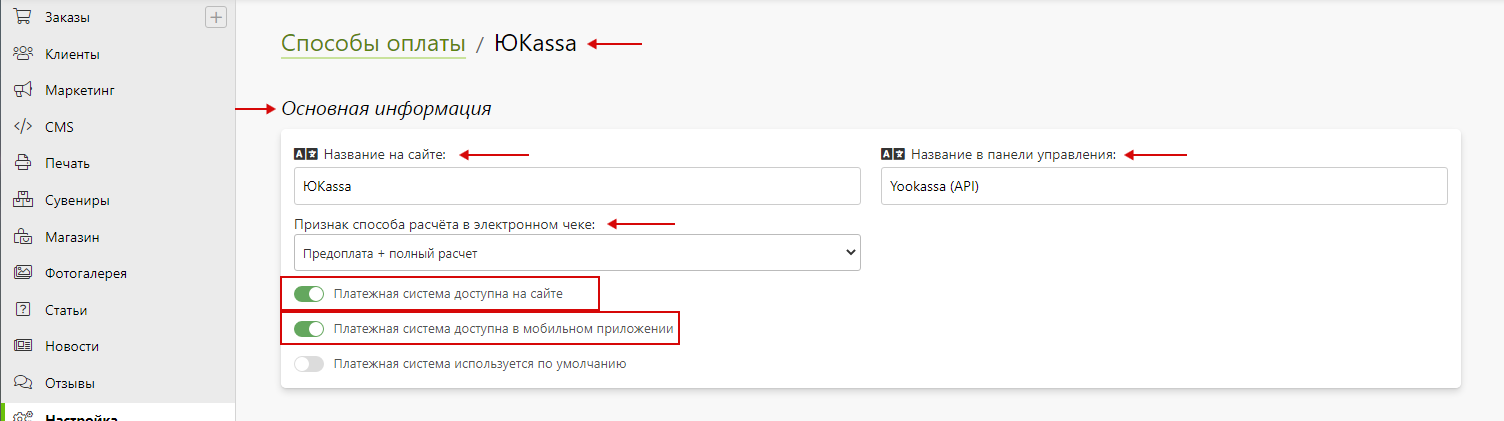
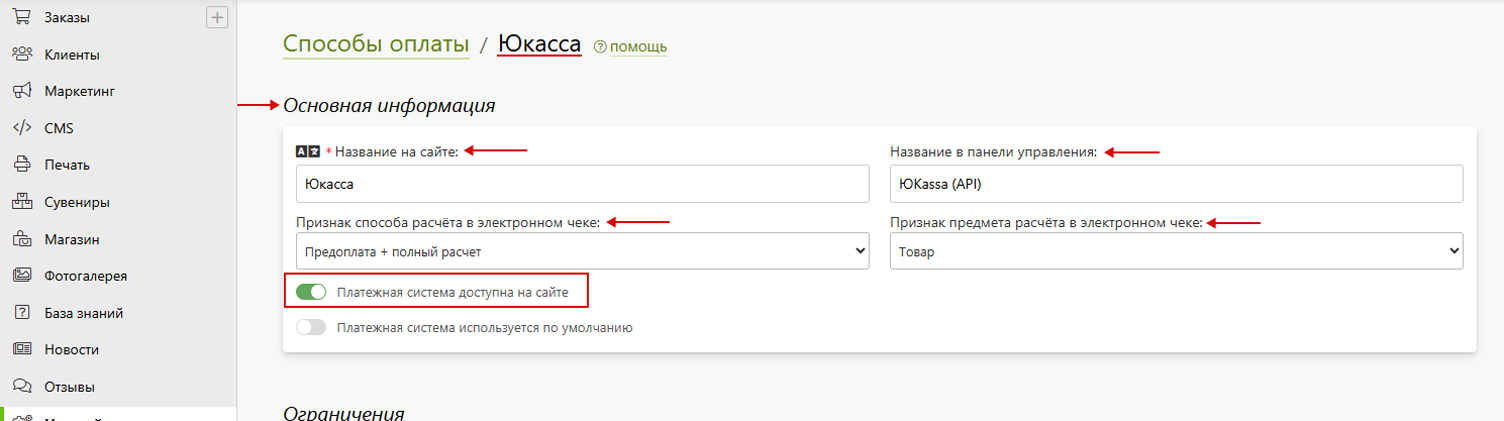
fix

diff --git a/docs/integration/payments.md b/docs/integration/payments.md
@@ -26,8 +26,8 @@ sidebar_position: 1
     + __Название на сайте__.
     + __Название в панели управления__.
     + __Признак способа расчета в электронном чеке__ - выбрать необходимый способ из списка.
+    + __Признак предмета расчета в электронном чеке__ - выбрать необходимый вариант из списка.
     + __Платежная система доступна на сайте__ - необходимо включить.
-    + __Платежная система доступна в мобильном приложении__ - включить при необходимости.
     + __Платежная система используется по умолчанию__ - включить при необходимости.
 * ![](../_media/integration/yookassa-02.png)
 > Подразделы "__Ограничения__" и "__Комиссия платежной системы__" при необходимости настраиваются опционально.
